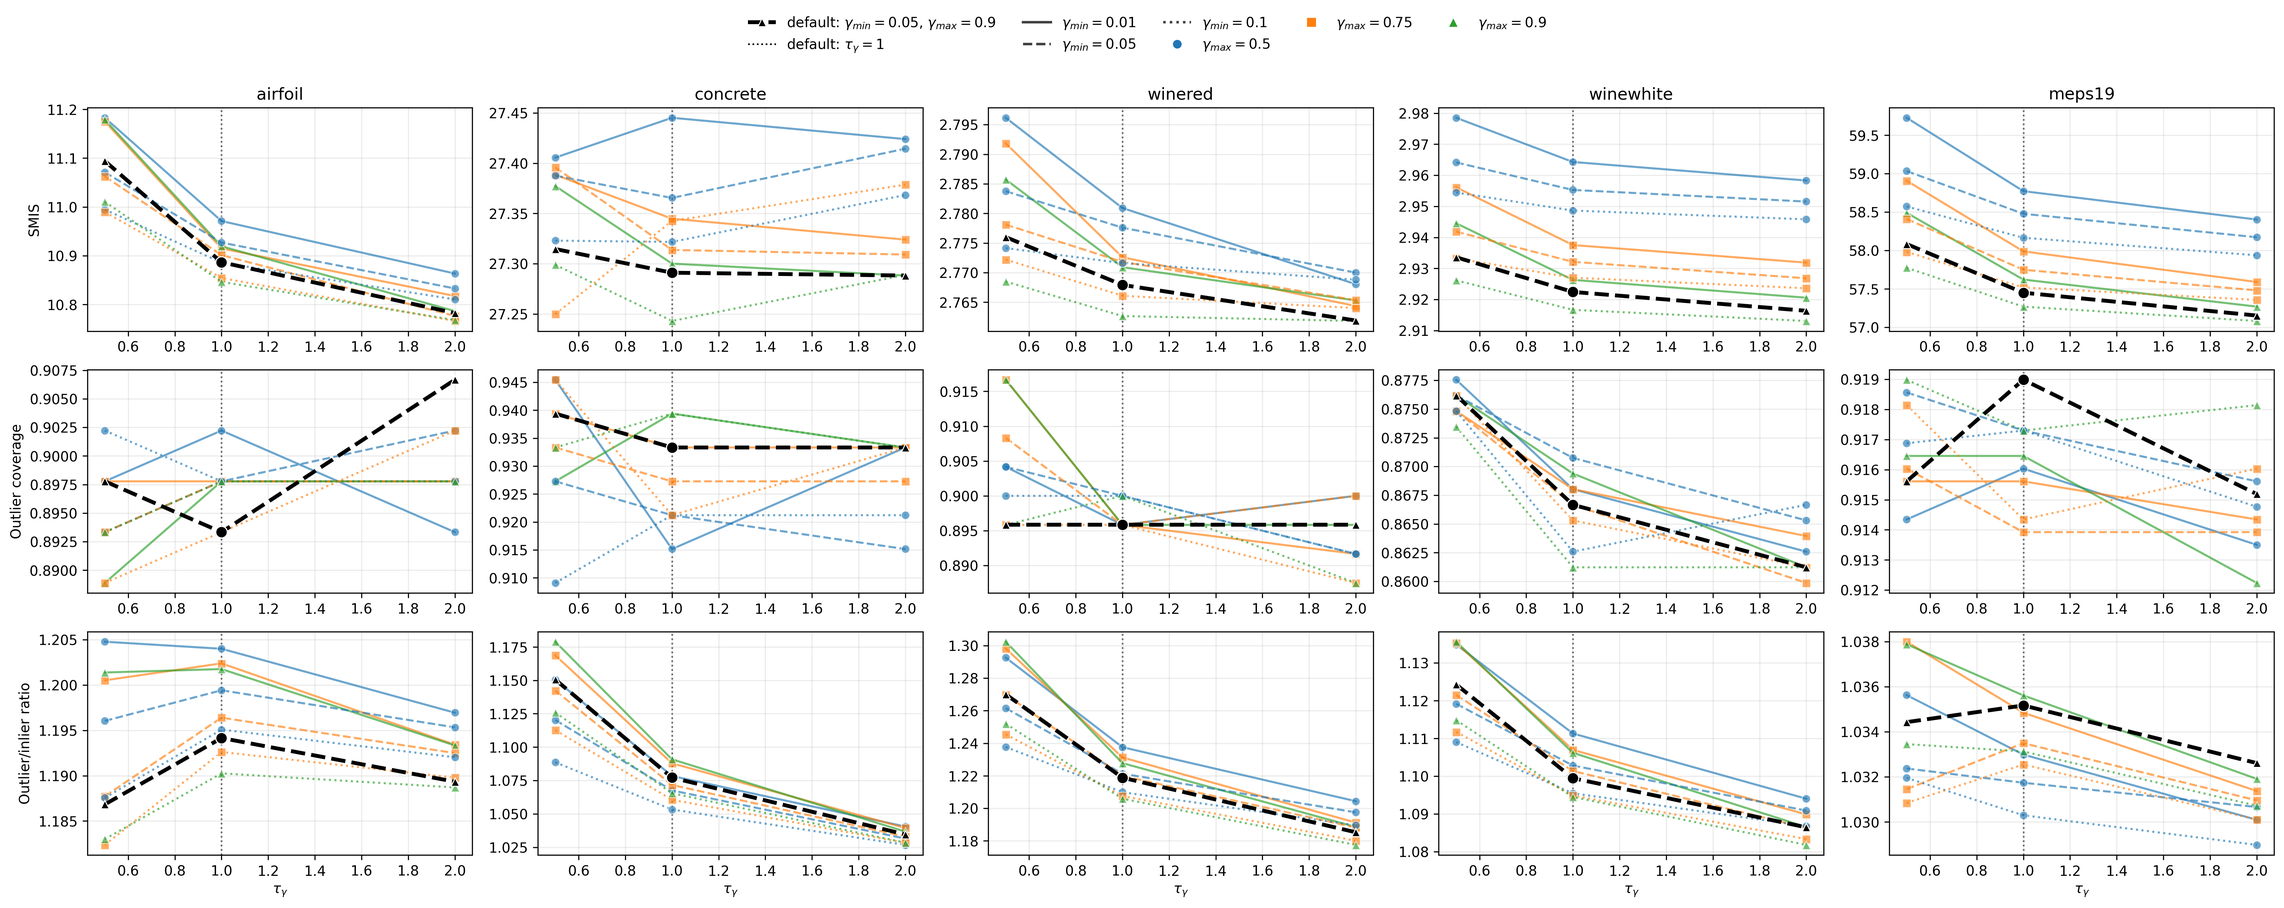
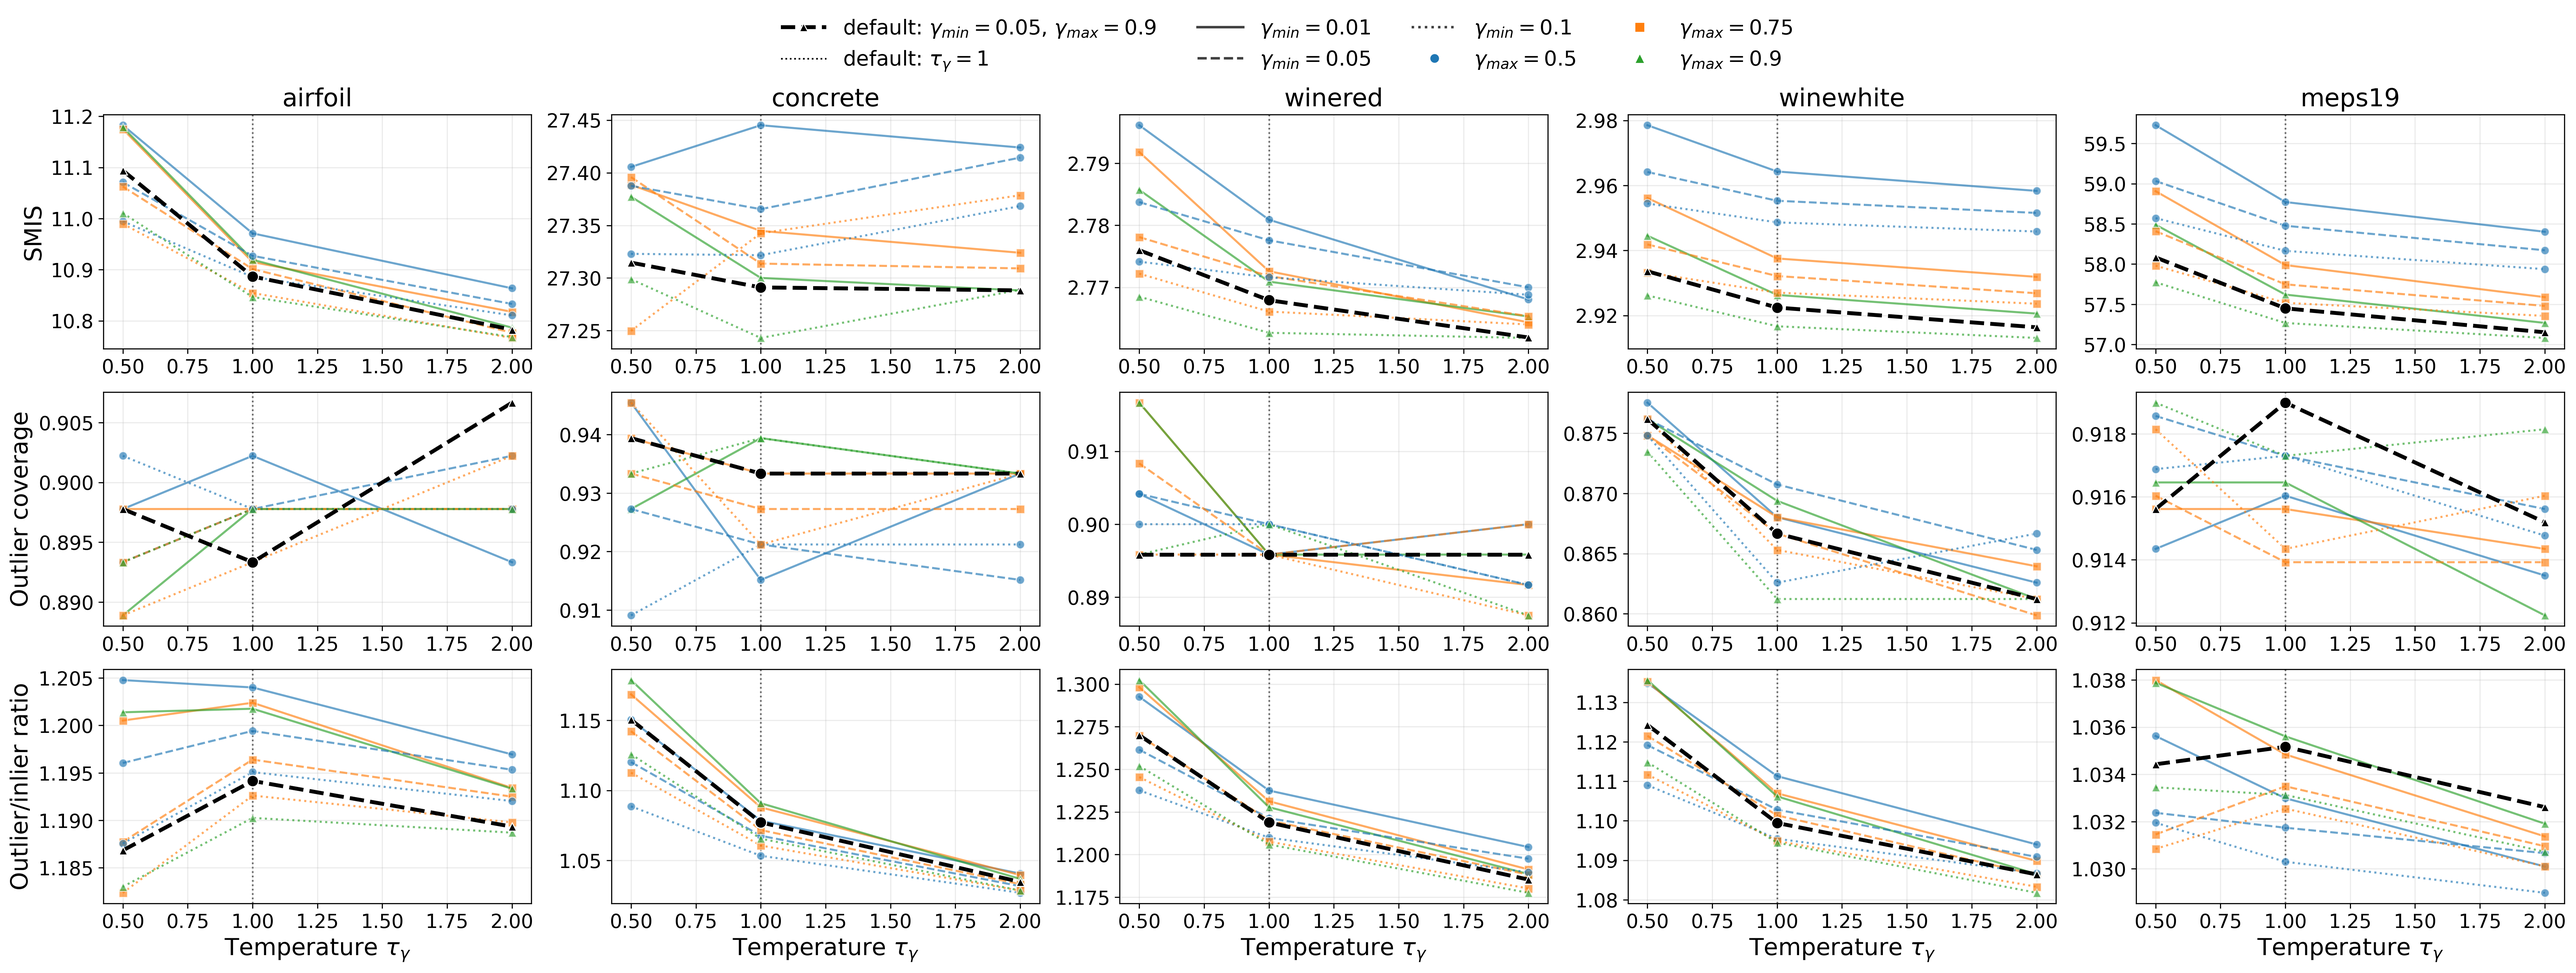
updating font size and scale of table results

diff --git a/paper_results/tables/result_qnn_interval_length.tex b/paper_results/tables/result_qnn_interval_length.tex
@@ -21,9 +21,9 @@ cycle (9568) & 13.54 (0.088) & 13.444 (0.089) & \textbf{11.957 (0.067)} & \textb
 electric (10000) & 0.029 (0.001) & 0.028 (0) & 0.024 (0) & 0.023 (0) & 0.024 (0) & \textbf{0.022 (0)} & 0.023 (0)\\
 meps19 (15785) & 39.707 (0.635) & 36.756 (0.707) & 29.258 (0.871) & 29.147 (0.946) & 29.094 (0.864) & \textbf{21.724 (0.245)} & 30.378 (0.756)\\
 superconductivity (21263) & 39.353 (0.336) & 34.703 (0.288) & 25.645 (0.254) & 26.785 (0.299) & 26.468 (0.273) & \textbf{25.011 (0.161)} & 26.844 (0.306)\\
-homes (21613) & 349761.596 (3697.624) & 339494.42 (2957.058) & 305134.195 (3329.127) & 305669.736 (2989.372) & 305991.717 (3062.312) & \textbf{284143.844 (1343.336)} & 316441.558 (3391.136)\\
+homes $\times 10^4$ (21613) & 34.976 (0.37) & 33.949 (0.296) & 30.513 (0.333) & 30.567 (0.299) & 30.599 (0.306) & \textbf{28.414 (0.134)} & 31.644 (0.339)\\
 protein (45730) & 13.189 (0.044) & 12.643 (0.044) & \textbf{10.339 (0.057)} & \textbf{10.355 (0.059)} & 10.403 (0.06) & \textbf{10.26 (0.053)} & 10.431 (0.112)\\
-WEC (54007) & 61979.026 (663.256) & 57883.348 (633.381) & 33850.717 (593.113) & 33630.969 (561.517) & 33722.947 (576.872) & \textbf{28132.674 (236.712)} & 37300.532 (789.574)\\
+WEC $\times 10^3$ (54007) & 61.979 (0.663) & 57.883 (0.633) & 33.851 (0.593) & 33.631 (0.562) & 33.723 (0.577) & \textbf{28.133 (0.237)} & 37.301 (0.79)\\
 \hline
 \end{tabular}
 \end{tabular}
